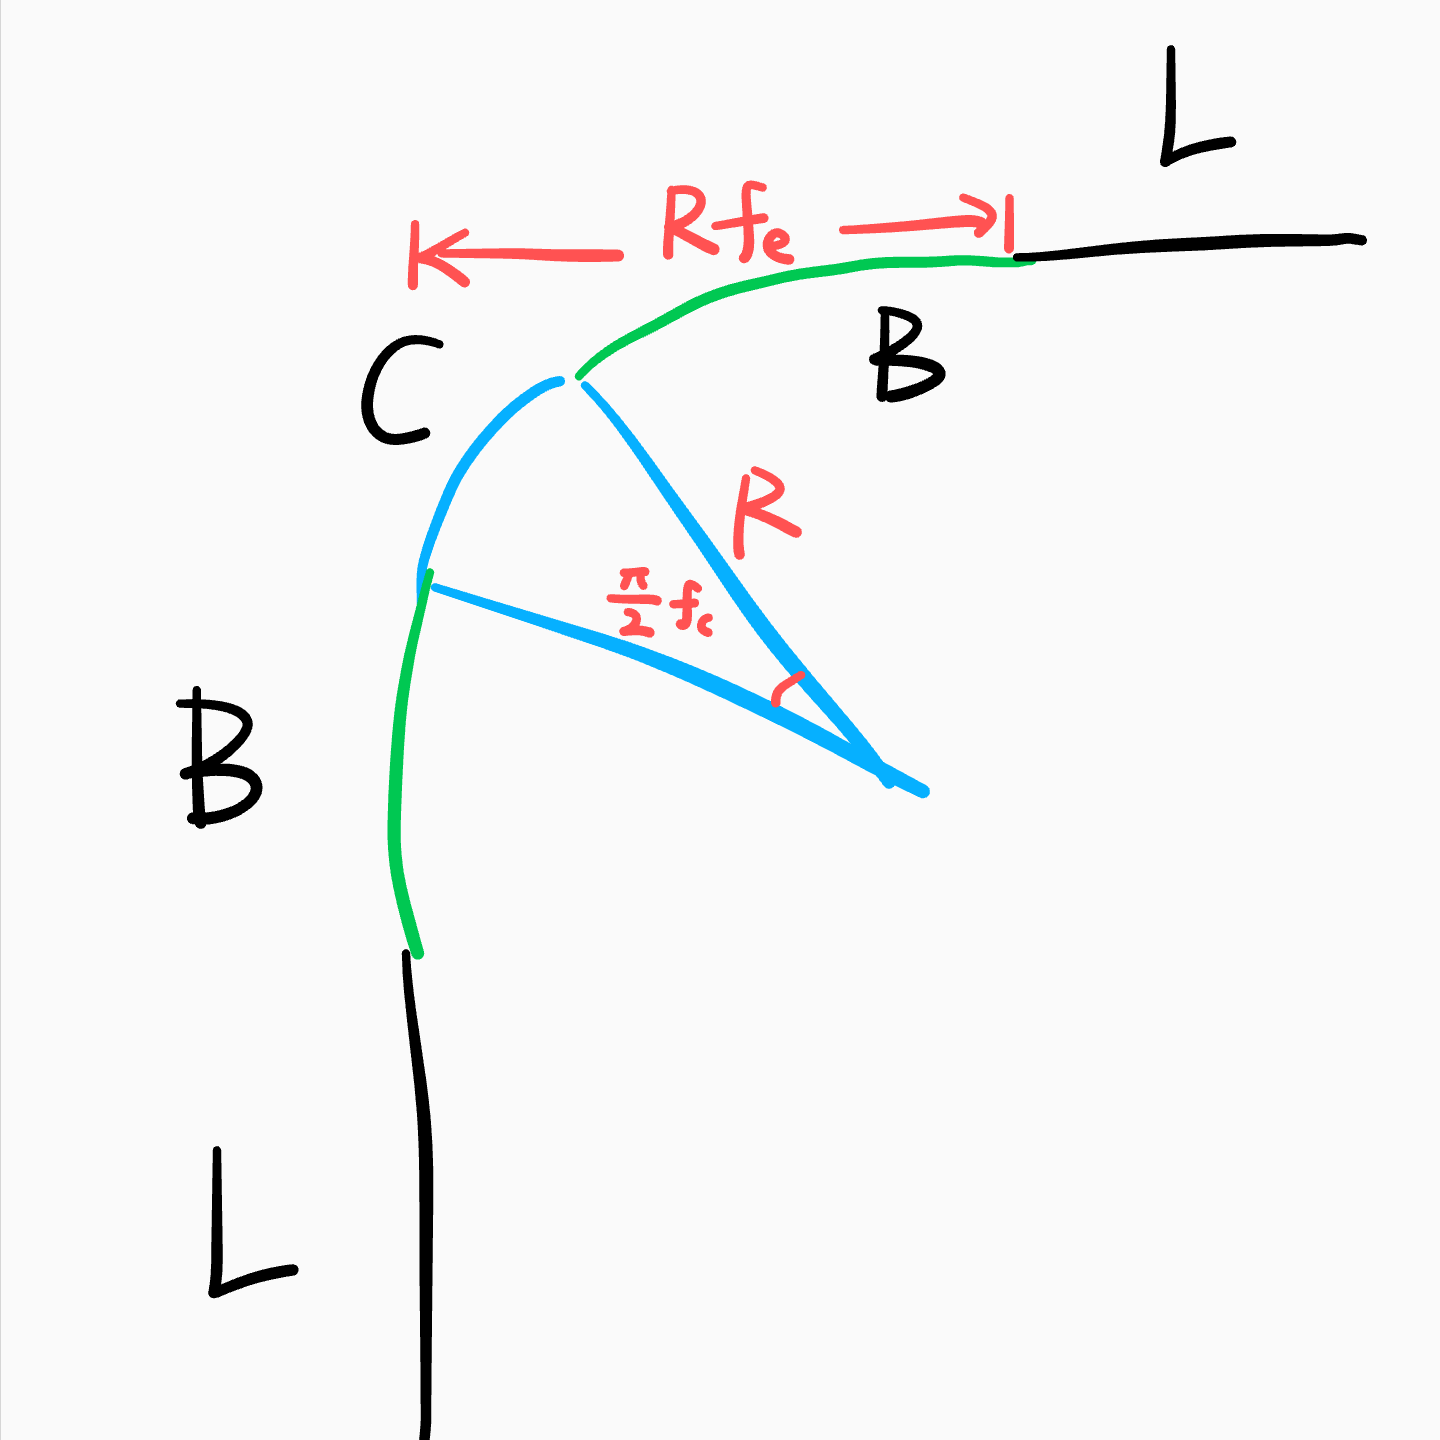
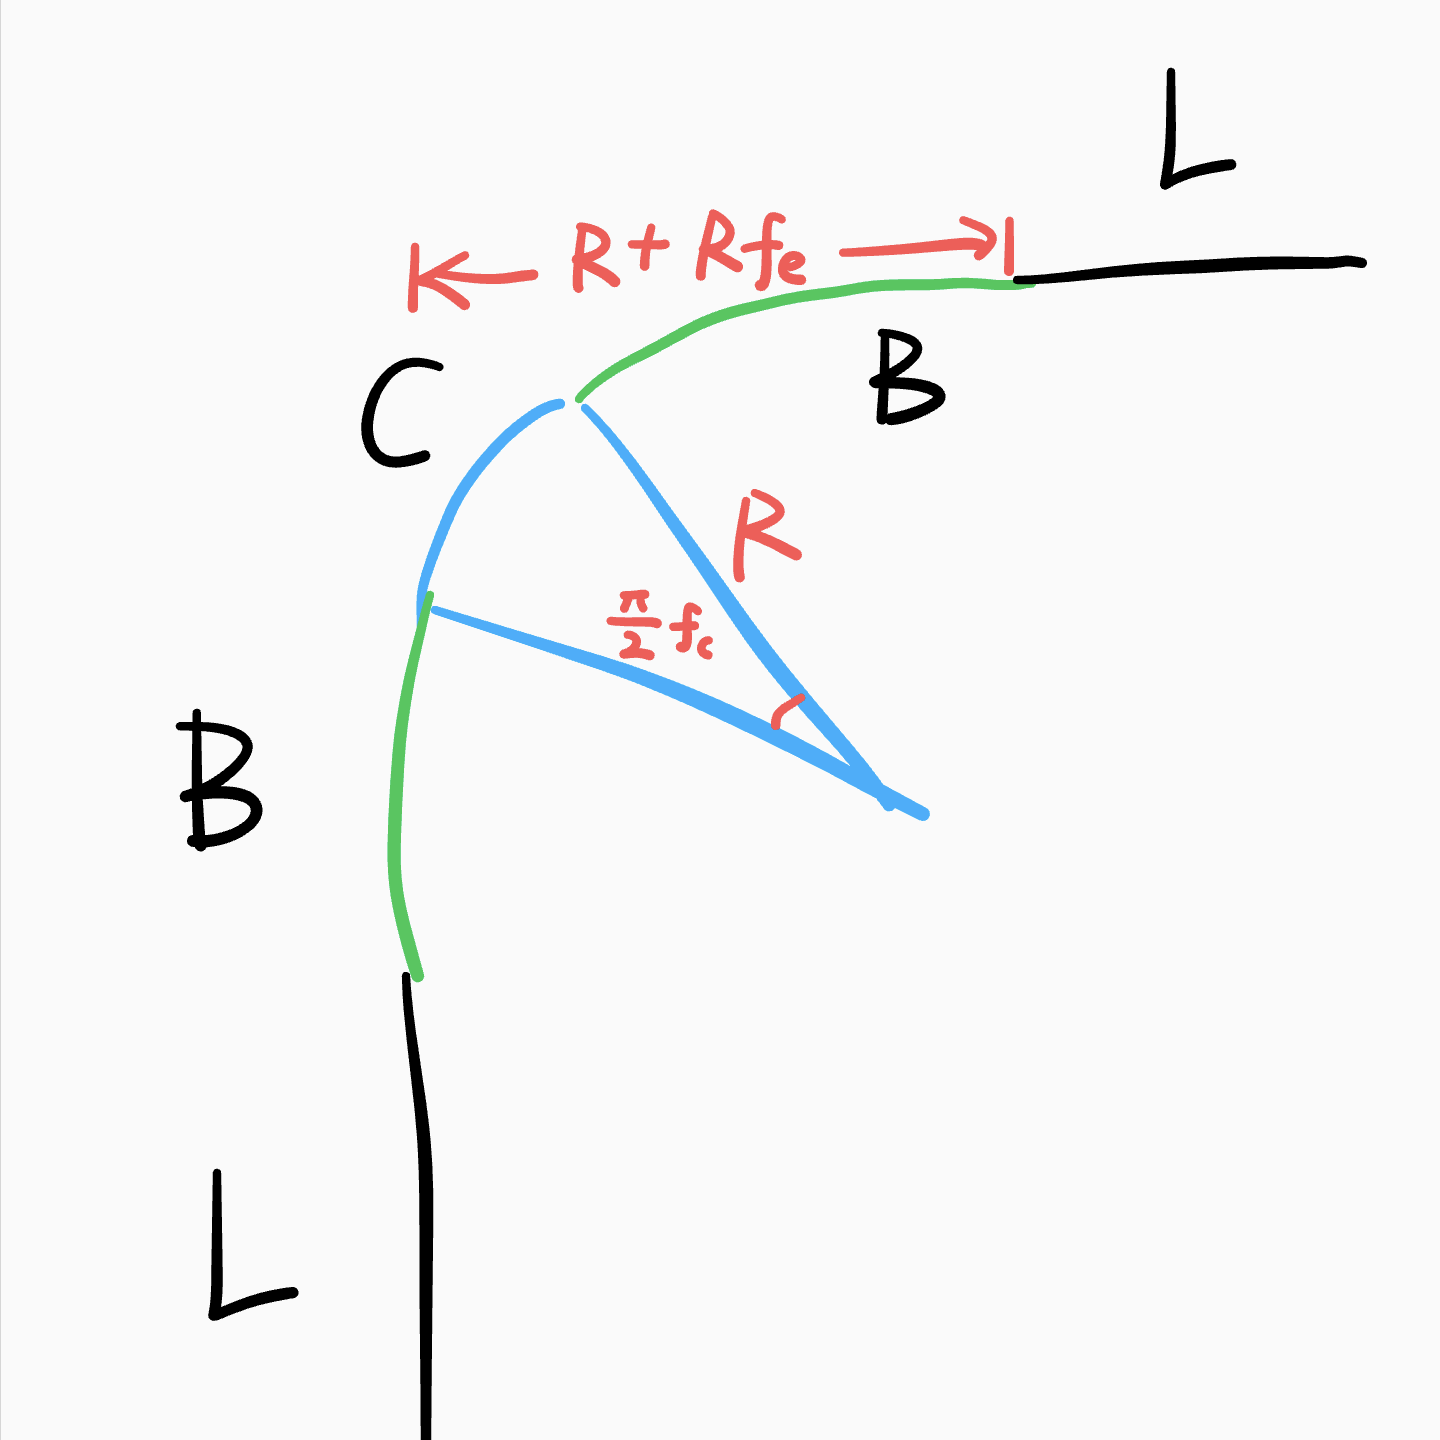
Update README

diff --git a/README.md b/README.md
@@ -2,9 +2,9 @@
 
 Capsule is a Jetpack Compose library that creates **G2 continuous** rounded corner shapes.
 
-![Comparison G2 corner and G1 corner](docs/comparison.png)
+![Comparison of G2 continuous corner and G1 continuous corner](docs/comparison.png)
 
-The black one is the G2 continuous corner, the red one is the normal G1 continuous corner.
+The black one is the G2 continuous corner. The red one is the normal G1 continuous corner.
 
 ## [Playground app](./app/release/app-release.apk)
 
@@ -60,23 +60,24 @@ CapsuleShape(cornerSmoothness = cornerSmoothness)
 
 ## Performance
 
-The performance of drawing cubic Bézier curves on Android is bad, while the Capsule library uses a very efficient way to
-calculate the control points of the cubic Bézier curves, so it does the best theoretically.
+Drawing cubic Bézier curves on Android performs poorly. However, the Capsule library uses a very efficient method to
+calculate the control points, achieving optimal theoretical performance.
 
-When the corner radius is constantly changing, the performance is bad, please use
-`animatedShape.copy(cornerSmoothness = CornerSmoothness.None)` to disable corner smoothing in the progress.
+When the shape area is large (almost fullscreen) and the corner radius is constantly changing, performance may decrease.
+Use animatedShape.copy(cornerSmoothness = CornerSmoothness.None) to temporarily disable corner smoothing during the
+animation.
 
 ## How it works
 
 Each corner consists of a part of **circle (C)** and two **cubic Bézier curves (B)** that connect the circle to the
 straight edges (L) of the rectangle.
 
+The proportion of the circular section is defined by the `circleFraction` (f_c) and the extended length relative to the
+corner radius (R) is defined by the `extendedFraction` (f_e) in `CornerSmoothness` class.
+
 ![Schematic](docs/schematic.png)
 
-The amount of circle portion is defined by the `circleFraction` (**f_c**) and the amount of "extended length (R × f_e)"
-relative to the corner radius (**R**) is defined by the `extendedFraction` (**f_e**) in `CornerSmoothness` class.
-
-It uses math to calculate the control points of the cubic Bézier curves to meet G2 continuity.
+It uses mathematical calculations to determine the control points of the cubic Bézier curves to achieve G2 continuity.
 
 ## Comparison with other implementations
 
